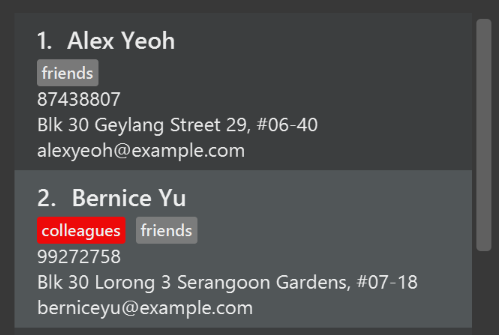
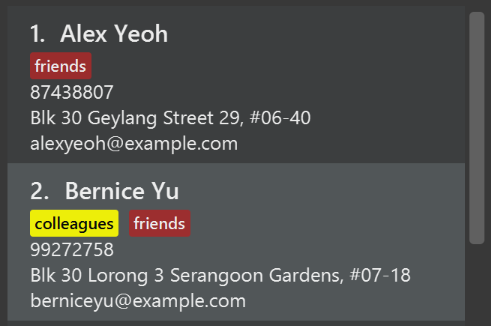
Rebuild pages at 4578b2c65608f99d3d8347f41ae207e2e98689b7

diff --git a/DeveloperGuide.html b/DeveloperGuide.html
@@ -1183,6 +1183,9 @@ b. Require developers to download those libraries manually (this creates extra w
 <p>Each individual exercise in this section is component-based (i.e. you would not need to modify the other components to get it to work).</p>
 </div>
 <h4 id="code-logic-code-component" class="discrete"><code>Logic</code> component</h4>
+<div class="paragraph">
+<p><strong>Scenario:</strong> You are in charge of <code>logic</code>. During dog-fooding, your team realize that it is troublesome for the user to type the whole command in order to execute a command. Your team devise some strategies to help cut down the amount of typing necessary, and one of the suggestions was to implement aliases for the command words. Your job is to implement such aliases.</p>
+</div>
 <div class="admonitionblock tip">
 <table>
 <tr>
@@ -1224,7 +1227,13 @@ Do take a look at <a href="#Design-Logic">Section 2.3, &#8220;Logic component&#8
 <p>Modify the switch statement in <a href="https://github.com/se-edu/addressbook-level4/tree/master/src/main/java/seedu/address/logic/parser/AddressBookParser.java"><code>AddressBookParser#parseCommand(String)</code></a> such that both the proper command word and alias can be used to execute the same intended command.</p>
 </li>
 <li>
-<p>See this <a href="https://github.com/se-edu/addressbook-level4/pull/590/files">PR</a> for the full solution.</p>
+<p>Add new tests for each of the aliases that you have added.</p>
+</li>
+<li>
+<p>Update the user guide to document the new aliases.</p>
+</li>
+<li>
+<p>See this <a href="https://github.com/se-edu/addressbook-level4/pull/785">PR</a> for the full solution.</p>
 </li>
 </ul>
 </div>
@@ -1237,6 +1246,9 @@ Do take a look at <a href="#Design-Logic">Section 2.3, &#8220;Logic component&#8
 </ol>
 </div>
 <h4 id="code-model-code-component" class="discrete"><code>Model</code> component</h4>
+<div class="paragraph">
+<p><strong>Scenario:</strong> You are in charge of <code>model</code>. One day, the <code>logic</code>-in-charge approaches you for help. He wants to implement a command such that the user is able to remove a particular tag from everyone in the address book, but the model API does not support such a functionality at the moment. Your job is to implement an API method, so that your teammate can use your API to implement his command.</p>
+</div>
 <div class="admonitionblock tip">
 <table>
 <tr>
@@ -1262,7 +1274,10 @@ Do take a look at <a href="#Design-Model">Section 2.4, &#8220;Model component&#8
 <div class="ulist">
 <ul>
 <li>
-<p>The <a href="https://github.com/se-edu/addressbook-level4/tree/master/src/main/java/seedu/address/model/Model.java"><code>Model</code></a> API needs to be updated.</p>
+<p>The <a href="https://github.com/se-edu/addressbook-level4/tree/master/src/main/java/seedu/address/model/Model.java"><code>Model</code></a> and the <a href="https://github.com/se-edu/addressbook-level4/tree/master/src/main/java/seedu/address/model/AddressBook.java"><code>AddressBook</code></a> API need to be updated.</p>
+</li>
+<li>
+<p>Think about how you can use SLAP to design the method. Where should we place the main logic of deleting tags?</p>
 </li>
 <li>
 <p>Find out which of the existing API methods in  <a href="https://github.com/se-edu/addressbook-level4/tree/master/src/main/java/seedu/address/model/AddressBook.java"><code>AddressBook</code></a> and <a href="https://github.com/se-edu/addressbook-level4/tree/master/src/main/java/seedu/address/model/person/Person.java"><code>Person</code></a> classes can be used to implement the tag removal logic. <a href="https://github.com/se-edu/addressbook-level4/tree/master/src/main/java/seedu/address/model/AddressBook.java"><code>AddressBook</code></a> allows you to update a person, and <a href="https://github.com/se-edu/addressbook-level4/tree/master/src/main/java/seedu/address/model/person/Person.java"><code>Person</code></a> allows you to update the tags.</p>
@@ -1275,10 +1290,26 @@ Do take a look at <a href="#Design-Model">Section 2.4, &#8220;Model component&#8
 <div class="ulist">
 <ul>
 <li>
-<p>Add the implementation of <code>deleteTag(Tag)</code> method in <a href="https://github.com/se-edu/addressbook-level4/tree/master/src/main/java/seedu/address/model/ModelManager.java"><code>ModelManager</code></a>. Loop through each person, and remove the <code>tag</code> from each person.</p>
+<p>Implement a <code>removeTag(Tag)</code> method in <a href="https://github.com/se-edu/addressbook-level4/tree/master/src/main/java/seedu/address/model/AddressBook.java"><code>AddressBook</code></a>. Loop through each person, and remove the <code>tag</code> from each person.</p>
 </li>
 <li>
-<p>See this <a href="https://github.com/se-edu/addressbook-level4/pull/591/files">PR</a> for the full solution.</p>
+<p>Add a new API method <code>deleteTag(Tag)</code> in <a href="https://github.com/se-edu/addressbook-level4/tree/master/src/main/java/seedu/address/model/ModelManager.java"><code>ModelManager</code></a>. Your <a href="https://github.com/se-edu/addressbook-level4/tree/master/src/main/java/seedu/address/model/ModelManager.java"><code>ModelManager</code></a> should call <code>AddressBook#removeTag(Tag)</code>.</p>
+</li>
+<li>
+<p>Add new tests for each of the new public methods that you have added.</p>
+</li>
+<li>
+<p>See this <a href="https://github.com/se-edu/addressbook-level4/pull/790">PR</a> for the full solution.</p>
+<div class="ulist">
+<ul>
+<li>
+<p>The current codebase has a flaw in tags management. Tags no longer in use by anyone may still exist on the <a href="https://github.com/se-edu/addressbook-level4/tree/master/src/main/java/seedu/address/model/AddressBook.java"><code>AddressBook</code></a>. This may cause some tests to fail. See issue  <a href="https://github.com/se-edu/addressbook-level4/issues/753"><code>#753</code></a> for more information about this flaw.</p>
+</li>
+<li>
+<p>The solution PR has a temporary fix for the flaw mentioned above in its first commit.</p>
+</li>
+</ul>
+</div>
 </li>
 </ul>
 </div>
@@ -1291,6 +1322,9 @@ Do take a look at <a href="#Design-Model">Section 2.4, &#8220;Model component&#8
 </ol>
 </div>
 <h4 id="code-ui-code-component" class="discrete"><code>Ui</code> component</h4>
+<div class="paragraph">
+<p><strong>Scenario:</strong> You are in charge of <code>ui</code>. During a beta testing session, your team is observing how the users use your address book application. You realize that one of the users occasionally tries to delete non-existent tags from a contact, because the tags all look the same visually, and the user got confused. Another user made a typing mistake in his command, but did not realize he had done so because the error message wasn&#8217;t prominent enough. A third user keeps scrolling down the list, because he keeps forgetting the index of the last person in the list. Your job is to implement improvements to the UI to solve all these problems.</p>
+</div>
 <div class="admonitionblock tip">
 <table>
 <tr>
@@ -1306,7 +1340,7 @@ Do take a look at <a href="#Design-Ui">Section 2.2, &#8220;UI component&#8221;</
 <div class="olist arabic">
 <ol class="arabic">
 <li>
-<p>Use different colors for different tags inside person cards. For example, <code>friends</code> tags can be all in grey, and <code>colleagues</code> tags can be all in red.</p>
+<p>Use different colors for different tags inside person cards. For example, <code>friends</code> tags can be all in brown, and <code>colleagues</code> tags can be all in yellow.</p>
 <div class="paragraph">
 <p><strong>Before</strong></p>
 </div>
@@ -1332,10 +1366,13 @@ Do take a look at <a href="#Design-Ui">Section 2.2, &#8220;UI component&#8221;</
 <div class="ulist">
 <ul>
 <li>
-<p>The tag labels are created inside <a href="https://github.com/se-edu/addressbook-level4/tree/master/src/main/java/seedu/address/ui/PersonCard.java"><code>PersonCard#initTags(Person)</code></a> (<code>new Label(tag.tagName)</code>). <a href="https://docs.oracle.com/javase/8/javafx/api/javafx/scene/control/Label.html">JavaFX&#8217;s <code>Label</code> class</a> allows you to modify the style of each Label, such as changing its color.</p>
+<p>The tag labels are created inside <a href="https://github.com/se-edu/addressbook-level4/tree/master/src/main/java/seedu/address/ui/PersonCard.java">the <code>PersonCard</code> constructor</a> (<code>new Label(tag.tagName)</code>). <a href="https://docs.oracle.com/javase/8/javafx/api/javafx/scene/control/Label.html">JavaFX&#8217;s <code>Label</code> class</a> allows you to modify the style of each Label, such as changing its color.</p>
 </li>
 <li>
 <p>Use the .css attribute <code>-fx-background-color</code> to add a color.</p>
+</li>
+<li>
+<p>You may wish to modify <a href="https://github.com/se-edu/addressbook-level4/tree/master/src/main/resources/view/DarkTheme.css"><code>DarkTheme.css</code></a> to include some pre-defined colors using css, especially if you have experience with web-based css.</p>
 </li>
 </ul>
 </div>
@@ -1345,7 +1382,17 @@ Do take a look at <a href="#Design-Ui">Section 2.2, &#8220;UI component&#8221;</
 <div class="ulist">
 <ul>
 <li>
-<p>See this <a href="https://github.com/se-edu/addressbook-level4/pull/592/files">PR</a> for the full solution.</p>
+<p>You can modify the existing test methods for <code>PersonCard</code> 's to include testing the tag&#8217;s color as well.</p>
+</li>
+<li>
+<p>See this <a href="https://github.com/se-edu/addressbook-level4/pull/798">PR</a> for the full solution.</p>
+<div class="ulist">
+<ul>
+<li>
+<p>The PR uses the hash code of the tag names to generate a color. This is deliberately designed to ensure consistent colors each time the application runs. You may wish to expand on this design to include additional features, such as allowing users to set their own tag colors, and directly saving the colors to storage, so that tags retain their colors even if the hash code algorithm changes.</p>
+</li>
+</ul>
+</div>
 </li>
 </ul>
 </div>
@@ -1398,10 +1445,30 @@ Do take a look at <a href="#Design-Ui">Section 2.2, &#8220;UI component&#8221;</
 <p>Modify <a href="https://github.com/se-edu/addressbook-level4/tree/master/src/main/java/seedu/address/commons/events/ui/NewResultAvailableEvent.java"><code>NewResultAvailableEvent</code></a> 's constructor so that users of the event can indicate whether an error has occurred.</p>
 </li>
 <li>
-<p>Modify <a href="https://github.com/se-edu/addressbook-level4/tree/master/src/main/java/seedu/address/ui/ResultDisplay.java"><code>ResultDisplay#handleNewResultAvailableEvent(event)</code></a> to react to this event appropriately.</p>
+<p>Modify <a href="https://github.com/se-edu/addressbook-level4/tree/master/src/main/java/seedu/address/ui/ResultDisplay.java"><code>ResultDisplay#handleNewResultAvailableEvent(NewResultAvailableEvent)</code></a> to react to this event appropriately.</p>
 </li>
 <li>
-<p>See this <a href="https://github.com/se-edu/addressbook-level4/pull/593/files">PR</a> for the full solution.</p>
+<p>You can write two different kinds of tests to ensure that the functionality works:</p>
+<div class="ulist">
+<ul>
+<li>
+<p>The unit tests for <code>ResultDisplay</code> can be modified to include verification of the color.</p>
+</li>
+<li>
+<p>The system tests <a href="https://github.com/se-edu/addressbook-level4/tree/master/src/test/java/systemtests/AddressBookSystemTest.java"><code>AddressBookSystemTest#assertCommandBoxShowsDefaultStyle() and AddressBookSystemTest#assertCommandBoxShowsErrorStyle()</code></a> to include verification for <code>ResultDisplay</code> as well.</p>
+</li>
+</ul>
+</div>
+</li>
+<li>
+<p>See this <a href="https://github.com/se-edu/addressbook-level4/pull/799">PR</a> for the full solution.</p>
+<div class="ulist">
+<ul>
+<li>
+<p>Do read the commits one at a time if you feel overwhelmed.</p>
+</li>
+</ul>
+</div>
 </li>
 </ul>
 </div>
@@ -1457,7 +1524,13 @@ Do take a look at <a href="#Design-Ui">Section 2.2, &#8220;UI component&#8221;</
 <p>Use <a href="https://github.com/se-edu/addressbook-level4/tree/master/src/main/java/seedu/address/ui/StatusBarFooter.java"><code>StatusBarFooter#handleAddressBookChangedEvent(AddressBookChangedEvent)</code></a> to update the number of persons whenever there are new changes to the addressbook.</p>
 </li>
 <li>
-<p>See this <a href="https://github.com/se-edu/addressbook-level4/pull/596/files">PR</a> for the full solution.</p>
+<p>For tests, modify <a href="https://github.com/se-edu/addressbook-level4/tree/master/src/test/java/guitests/guihandles/StatusBarFooterHandle.java"><code>StatusBarFooterHandle</code></a> by adding a state-saving functionality for the total number of people status, just like what we did for save location and sync status.</p>
+</li>
+<li>
+<p>For system tests, modify <a href="https://github.com/se-edu/addressbook-level4/tree/master/src/test/java/systemtests/AddressBookSystemTest.java"><code>AddressBookSystemTest</code></a> to also verify the new total number of persons status bar.</p>
+</li>
+<li>
+<p>See this <a href="https://github.com/se-edu/addressbook-level4/pull/803">PR</a> for the full solution.</p>
 </li>
 </ul>
 </div>
@@ -1470,6 +1543,9 @@ Do take a look at <a href="#Design-Ui">Section 2.2, &#8220;UI component&#8221;</
 </ol>
 </div>
 <h4 id="code-storage-code-component" class="discrete"><code>Storage</code> component</h4>
+<div class="paragraph">
+<p><strong>Scenario:</strong> You are in charge of <code>storage</code>. For your next project milestone, your team plans to implement a new feature of saving the address book to the cloud. However, the current implementation of the application constantly saves the address book after the execution of each command, which is not ideal if the user is working on limited internet connection. Your team decided that the application should instead save the changes to a temporary local backup file first, and only upload to the cloud after the user closes the application. Your job is to implement a backup API for the address book storage.</p>
+</div>
 <div class="admonitionblock tip">
 <table>
 <tr>
@@ -1498,7 +1574,7 @@ Do take a look at <a href="#Design-Storage">Section 2.5, &#8220;Storage componen
 <p>Add the API method in <a href="https://github.com/se-edu/addressbook-level4/tree/master/src/main/java/seedu/address/storage/AddressBookStorage.java"><code>AddressBookStorage</code></a> interface.</p>
 </li>
 <li>
-<p>Implement the logic in <a href="https://github.com/se-edu/addressbook-level4/tree/master/src/main/java/seedu/address/storage/StorageManager.java"><code>StorageManager</code></a> class.</p>
+<p>Implement the logic in <a href="https://github.com/se-edu/addressbook-level4/tree/master/src/main/java/seedu/address/storage/StorageManager.java"><code>StorageManager</code></a> and <a href="https://github.com/se-edu/addressbook-level4/tree/master/src/main/java/seedu/address/storage/XmlAddressBookStorage.java"><code>XmlAddressBookStorage</code></a> class.</p>
 </li>
 </ul>
 </div>
@@ -1508,7 +1584,7 @@ Do take a look at <a href="#Design-Storage">Section 2.5, &#8220;Storage componen
 <div class="ulist">
 <ul>
 <li>
-<p>See this <a href="https://github.com/se-edu/addressbook-level4/pull/594/files">PR</a> for the full solution.</p>
+<p>See this <a href="https://github.com/se-edu/addressbook-level4/pull/594">PR</a> for the full solution.</p>
 </li>
 </ul>
 </div>
@@ -1525,6 +1601,9 @@ Do take a look at <a href="#Design-Storage">Section 2.5, &#8220;Storage componen
 <h3 id="GetStartedProgramming-RemarkCommand"><a class="link" href="#GetStartedProgramming-RemarkCommand">A.2. Creating a new command: <code>remark</code></a></h3>
 <div class="paragraph">
 <p>By creating this command, you will get a chance to learn how to implement a feature end-to-end, touching all major components of the app.</p>
+</div>
+<div class="paragraph">
+<p><strong>Scenario:</strong> You are a software maintainer for <code>addressbook</code>, as the former developer team has moved on to new projects. The current users of your application have a list of new feature requests that they hope the software will eventually have. The most popular request is to allow adding additional comments/notes about a particular contact, by providing a flexible <code>remark</code> field for each contact, rather than relying on tags alone. After designing the specification for the <code>remark</code> command, you are convinced that this feature is worth implementing. Your job is to implement the <code>remark</code> command.</p>
 </div>
 <div class="sect3">
 <h4 id="description"><a class="link" href="#description">A.2.1. Description</a></h4>
@@ -1690,7 +1769,7 @@ for <code>RemarkCommandParser</code>.</p>
 <div class="olist arabic">
 <ol class="arabic">
 <li>
-<p>Add three methods <code>setRemark(Remark)</code>, <code>getRemark()</code> and <code>remarkProperty()</code>. Be sure to implement these newly created methods in <a href="https://github.com/se-edu/addressbook-level4/tree/master/src/main/java/seedu/address/model/person/Person.java"><code>Person</code></a>, which implements the <a href="https://github.com/se-edu/addressbook-level4/tree/master/src/main/java/seedu/address/model/person/Person.java"><code>Person</code></a> interface.</p>
+<p>Add <code>getRemark()</code> in <a href="https://github.com/se-edu/addressbook-level4/tree/master/src/main/java/seedu/address/model/person/Person.java"><code>Person</code></a>.</p>
 </li>
 <li>
 <p>You may assume that the user will not be able to use the <code>add</code> and <code>edit</code> commands to modify the remarks field (i.e. the person will be created without a remark).</p>
@@ -1714,9 +1793,6 @@ for <code>RemarkCommandParser</code>.</p>
 <li>
 <p>Add a new Xml field for <code>Remark</code>.</p>
 </li>
-<li>
-<p>Be sure to modify the logic of the constructor and <code>toModelType()</code>, which handles the conversion to/from  <a href="https://github.com/se-edu/addressbook-level4/tree/master/src/main/java/seedu/address/model/person/Person.java"><code>Person</code></a>.</p>
-</li>
 </ol>
 </div>
 <div class="paragraph">
@@ -1725,7 +1801,26 @@ for <code>RemarkCommandParser</code>.</p>
 <div class="olist arabic">
 <ol class="arabic">
 <li>
-<p>Fix <code>validAddressBook.xml</code> such that the XML tests will not fail due to a missing <code>&lt;remark&gt;</code> element.</p>
+<p>Fix <code>invalidAndValidPersonAddressBook.xml</code>, <code>typicalPersonsAddressBook.xml</code>, <code>validAddressBook.xml</code> etc., such that the XML tests will not fail due to a missing <code>&lt;remark&gt;</code> element.</p>
+</li>
+</ol>
+</div>
+</div>
+<div class="sect4">
+<h5 id="step-6b-test-add-withremark-for-code-personbuilder-code"><a class="link" href="#step-6b-test-add-withremark-for-code-personbuilder-code">[Step 6b] Test: Add withRemark() for <code>PersonBuilder</code></a></h5>
+<div class="paragraph">
+<p>Since <code>Person</code> can now have a <code>Remark</code>, we should add a helper method to <a href="https://github.com/se-edu/addressbook-level4/tree/master/src/test/java/seedu/address/testutil/PersonBuilder.java"><code>PersonBuilder</code></a>, so that users are able to create remarks when building a <a href="https://github.com/se-edu/addressbook-level4/tree/master/src/main/java/seedu/address/model/person/Person.java"><code>Person</code></a>.</p>
+</div>
+<div class="paragraph">
+<p><strong>Tests:</strong></p>
+</div>
+<div class="olist arabic">
+<ol class="arabic">
+<li>
+<p>Add a new method <code>withRemark()</code> for <a href="https://github.com/se-edu/addressbook-level4/tree/master/src/test/java/seedu/address/testutil/PersonBuilder.java"><code>PersonBuilder</code></a>. This method will create a new <code>Remark</code> for the person that it is currently building.</p>
+</li>
+<li>
+<p>Try and use the method on any sample <code>Person</code> in <a href="https://github.com/se-edu/addressbook-level4/tree/master/src/test/java/seedu/address/testutil/TypicalPersons.java"><code>TypicalPersons</code></a>.</p>
 </li>
 </ol>
 </div>
@@ -1741,7 +1836,7 @@ for <code>RemarkCommandParser</code>.</p>
 <div class="olist arabic">
 <ol class="arabic">
 <li>
-<p>Modify <a href="https://github.com/se-edu/addressbook-level4/tree/master/src/main/java/seedu/address/ui/PersonCard.java"><code>PersonCard#bindListeners()</code></a> to add the binding for <code>remark</code>.</p>
+<p>Modify <a href="https://github.com/se-edu/addressbook-level4/tree/master/src/main/java/seedu/address/ui/PersonCard.java"><code>PersonCard</code></a>'s constructor to bind the <code>Remark</code> field to the <code>Person</code> 's remark.</p>
 </li>
 </ol>
 </div>
@@ -1751,10 +1846,7 @@ for <code>RemarkCommandParser</code>.</p>
 <div class="olist arabic">
 <ol class="arabic">
 <li>
-<p>Modify <a href="https://github.com/se-edu/addressbook-level4/tree/master/src/test/java/seedu/address/ui/testutil/GuiTestAssert.java"><code>GuiTestAssert#assertCardDisplaysPerson(&#8230;&#8203;)</code></a> so that it will compare the remark label.</p>
-</li>
-<li>
-<p>In <a href="https://github.com/se-edu/addressbook-level4/tree/master/src/test/java/seedu/address/ui/PersonCardTest.java"><code>PersonCardTest</code></a>, call <code>personWithTags.setRemark(ALICE.getRemark())</code> to test that changes in the <a href="https://github.com/se-edu/addressbook-level4/tree/master/src/main/java/seedu/address/model/person/Person.java"><code>Person</code></a> 's remark correctly updates the corresponding <a href="https://github.com/se-edu/addressbook-level4/tree/master/src/main/java/seedu/address/ui/PersonCard.java"><code>PersonCard</code></a>.</p>
+<p>Modify <a href="https://github.com/se-edu/addressbook-level4/tree/master/src/test/java/seedu/address/ui/testutil/GuiTestAssert.java"><code>GuiTestAssert#assertCardDisplaysPerson(&#8230;&#8203;)</code></a> so that it will compare the now-functioning remark label.</p>
 </li>
 </ol>
 </div>
@@ -2138,7 +2230,7 @@ Expected: Similar to previous.</p>
 </div>
 <div id="footer">
 <div id="footer-text">
-Last updated 2018-02-14 03:56:22 UTC
+Last updated 2018-02-15 00:41:29 UTC
 </div>
 </div>
 </body>

diff --git a/LearningOutcomes.html b/LearningOutcomes.html
@@ -561,7 +561,7 @@ class gives some examples of how to use <em>Equivalence Partitions</em>, <em>Bou
 </div>
 <div id="footer">
 <div id="footer-text">
-Last updated 2018-02-14 03:56:22 UTC
+Last updated 2018-02-15 00:41:29 UTC
 </div>
 </div>
 </body>

diff --git a/UsingCoveralls.html b/UsingCoveralls.html
@@ -115,7 +115,7 @@ If you have not set up Travis CI, see <a href="UsingTravis.html">UsingTravis.ado
 </div>
 <div id="footer">
 <div id="footer-text">
-Last updated 2018-02-14 03:56:22 UTC
+Last updated 2018-02-15 00:41:29 UTC
 </div>
 </div>
 </body>

diff --git a/UsingGradle.html b/UsingGradle.html
@@ -261,7 +261,7 @@ See <code>build.gradle</code> &#8594; <code>allprojects</code> &#8594; <code>dep
 </div>
 <div id="footer">
 <div id="footer-text">
-Last updated 2018-02-14 03:56:22 UTC
+Last updated 2018-02-15 00:41:29 UTC
 </div>
 </div>
 </body>

diff --git a/team/johndoe.html b/team/johndoe.html
@@ -561,7 +561,7 @@ If the <code>redoStack</code> is empty, then there are no other commands left to
 </div>
 <div id="footer">
 <div id="footer-text">
-Last updated 2018-02-14 03:56:22 UTC
+Last updated 2018-02-15 00:41:29 UTC
 </div>
 </div>
 </body>

diff --git a/UsingTravis.html b/UsingTravis.html
@@ -299,7 +299,7 @@ Suggested change: Remove the codacy badge from <code>README</code>.</p>
 </div>
 <div id="footer">
 <div id="footer-text">
-Last updated 2018-02-14 03:56:22 UTC
+Last updated 2018-02-15 00:41:29 UTC
 </div>
 </div>
 </body>

diff --git a/UsingCheckstyle.html b/UsingCheckstyle.html
@@ -103,7 +103,7 @@ Restart the IDE to complete the installation.</p>
 </div>
 <div id="footer">
 <div id="footer-text">
-Last updated 2018-02-14 03:56:22 UTC
+Last updated 2018-02-15 00:41:29 UTC
 </div>
 </div>
 </body>

diff --git a/TestDocument.html b/TestDocument.html
@@ -178,7 +178,7 @@ This should be on a new line.</p>
 </div>
 <div id="footer">
 <div id="footer-text">
-Last updated 2018-02-14 03:56:22 UTC
+Last updated 2018-02-15 00:41:29 UTC
 </div>
 </div>
 </body>

diff --git a/UserGuide.html b/UserGuide.html
@@ -551,7 +551,7 @@ e.g.<code>select 2</code></p>
 </div>
 <div id="footer">
 <div id="footer-text">
-Last updated 2018-02-14 03:56:22 UTC
+Last updated 2018-02-15 00:41:29 UTC
 </div>
 </div>
 </body>

diff --git a/AboutUs.html b/AboutUs.html
@@ -112,7 +112,7 @@ Responsibilities: UI</p>
 </div>
 <div id="footer">
 <div id="footer-text">
-Last updated 2018-02-14 03:56:22 UTC
+Last updated 2018-02-15 00:41:29 UTC
 </div>
 </div>
 </body>

diff --git a/UsingAppVeyor.html b/UsingAppVeyor.html
@@ -174,7 +174,7 @@ grant access:</p>
 </div>
 <div id="footer">
 <div id="footer-text">
-Last updated 2018-02-14 03:56:22 UTC
+Last updated 2018-02-15 00:41:29 UTC
 </div>
 </div>
 </body>

diff --git a/index.html b/index.html
@@ -109,7 +109,7 @@
 </div>
 <div id="footer">
 <div id="footer-text">
-Last updated 2018-02-14 03:56:22 UTC
+Last updated 2018-02-15 00:41:29 UTC
 </div>
 </div>
 </body>
